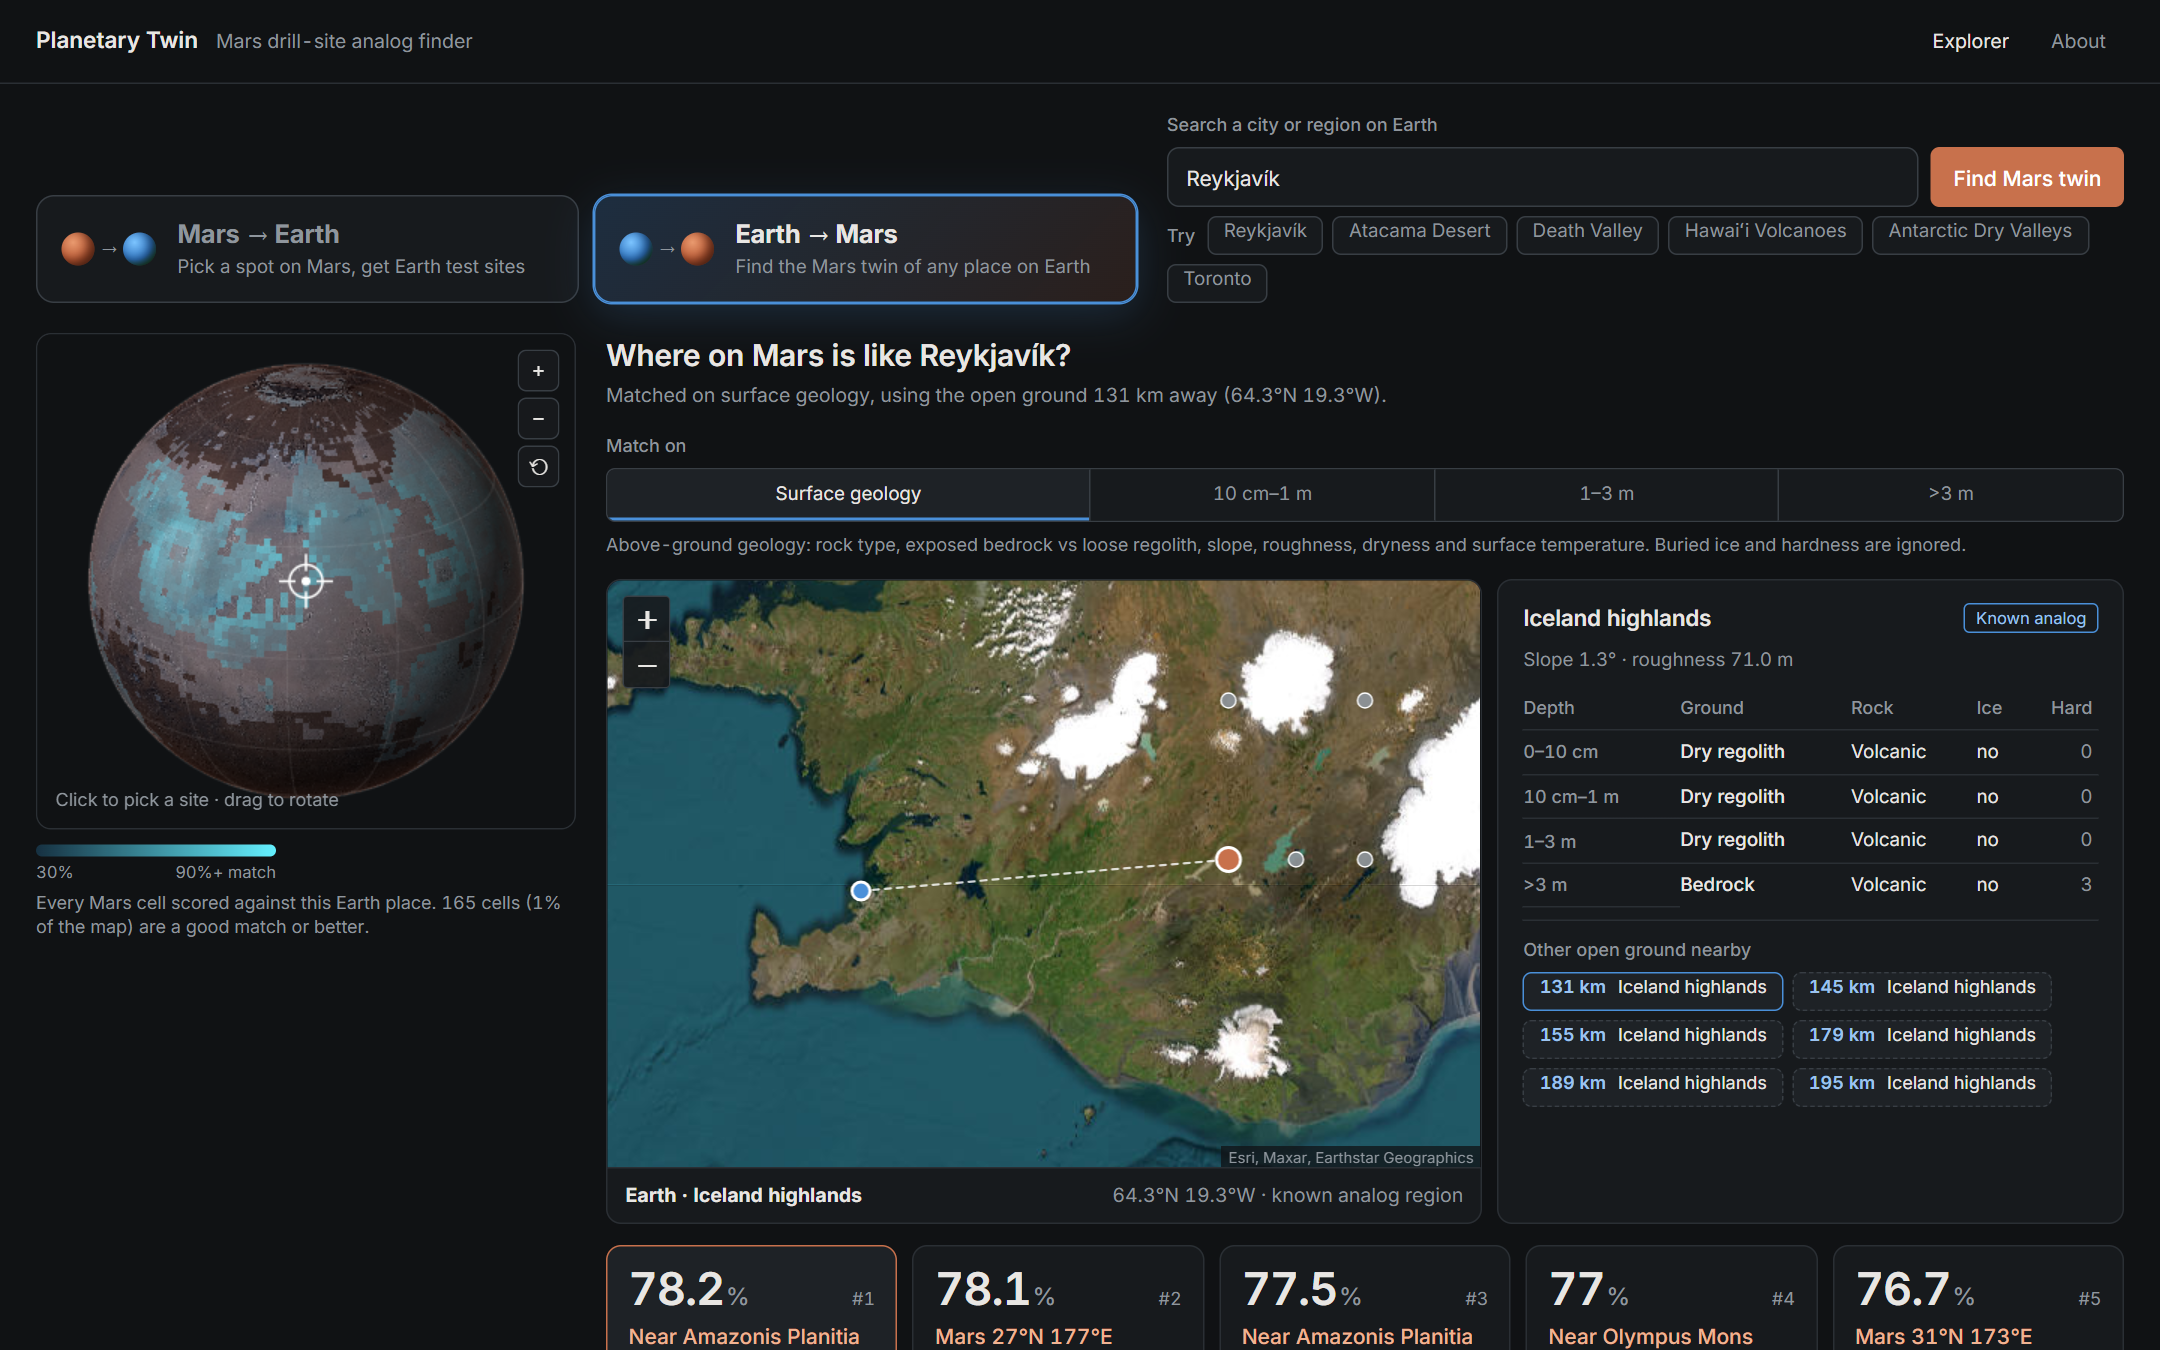
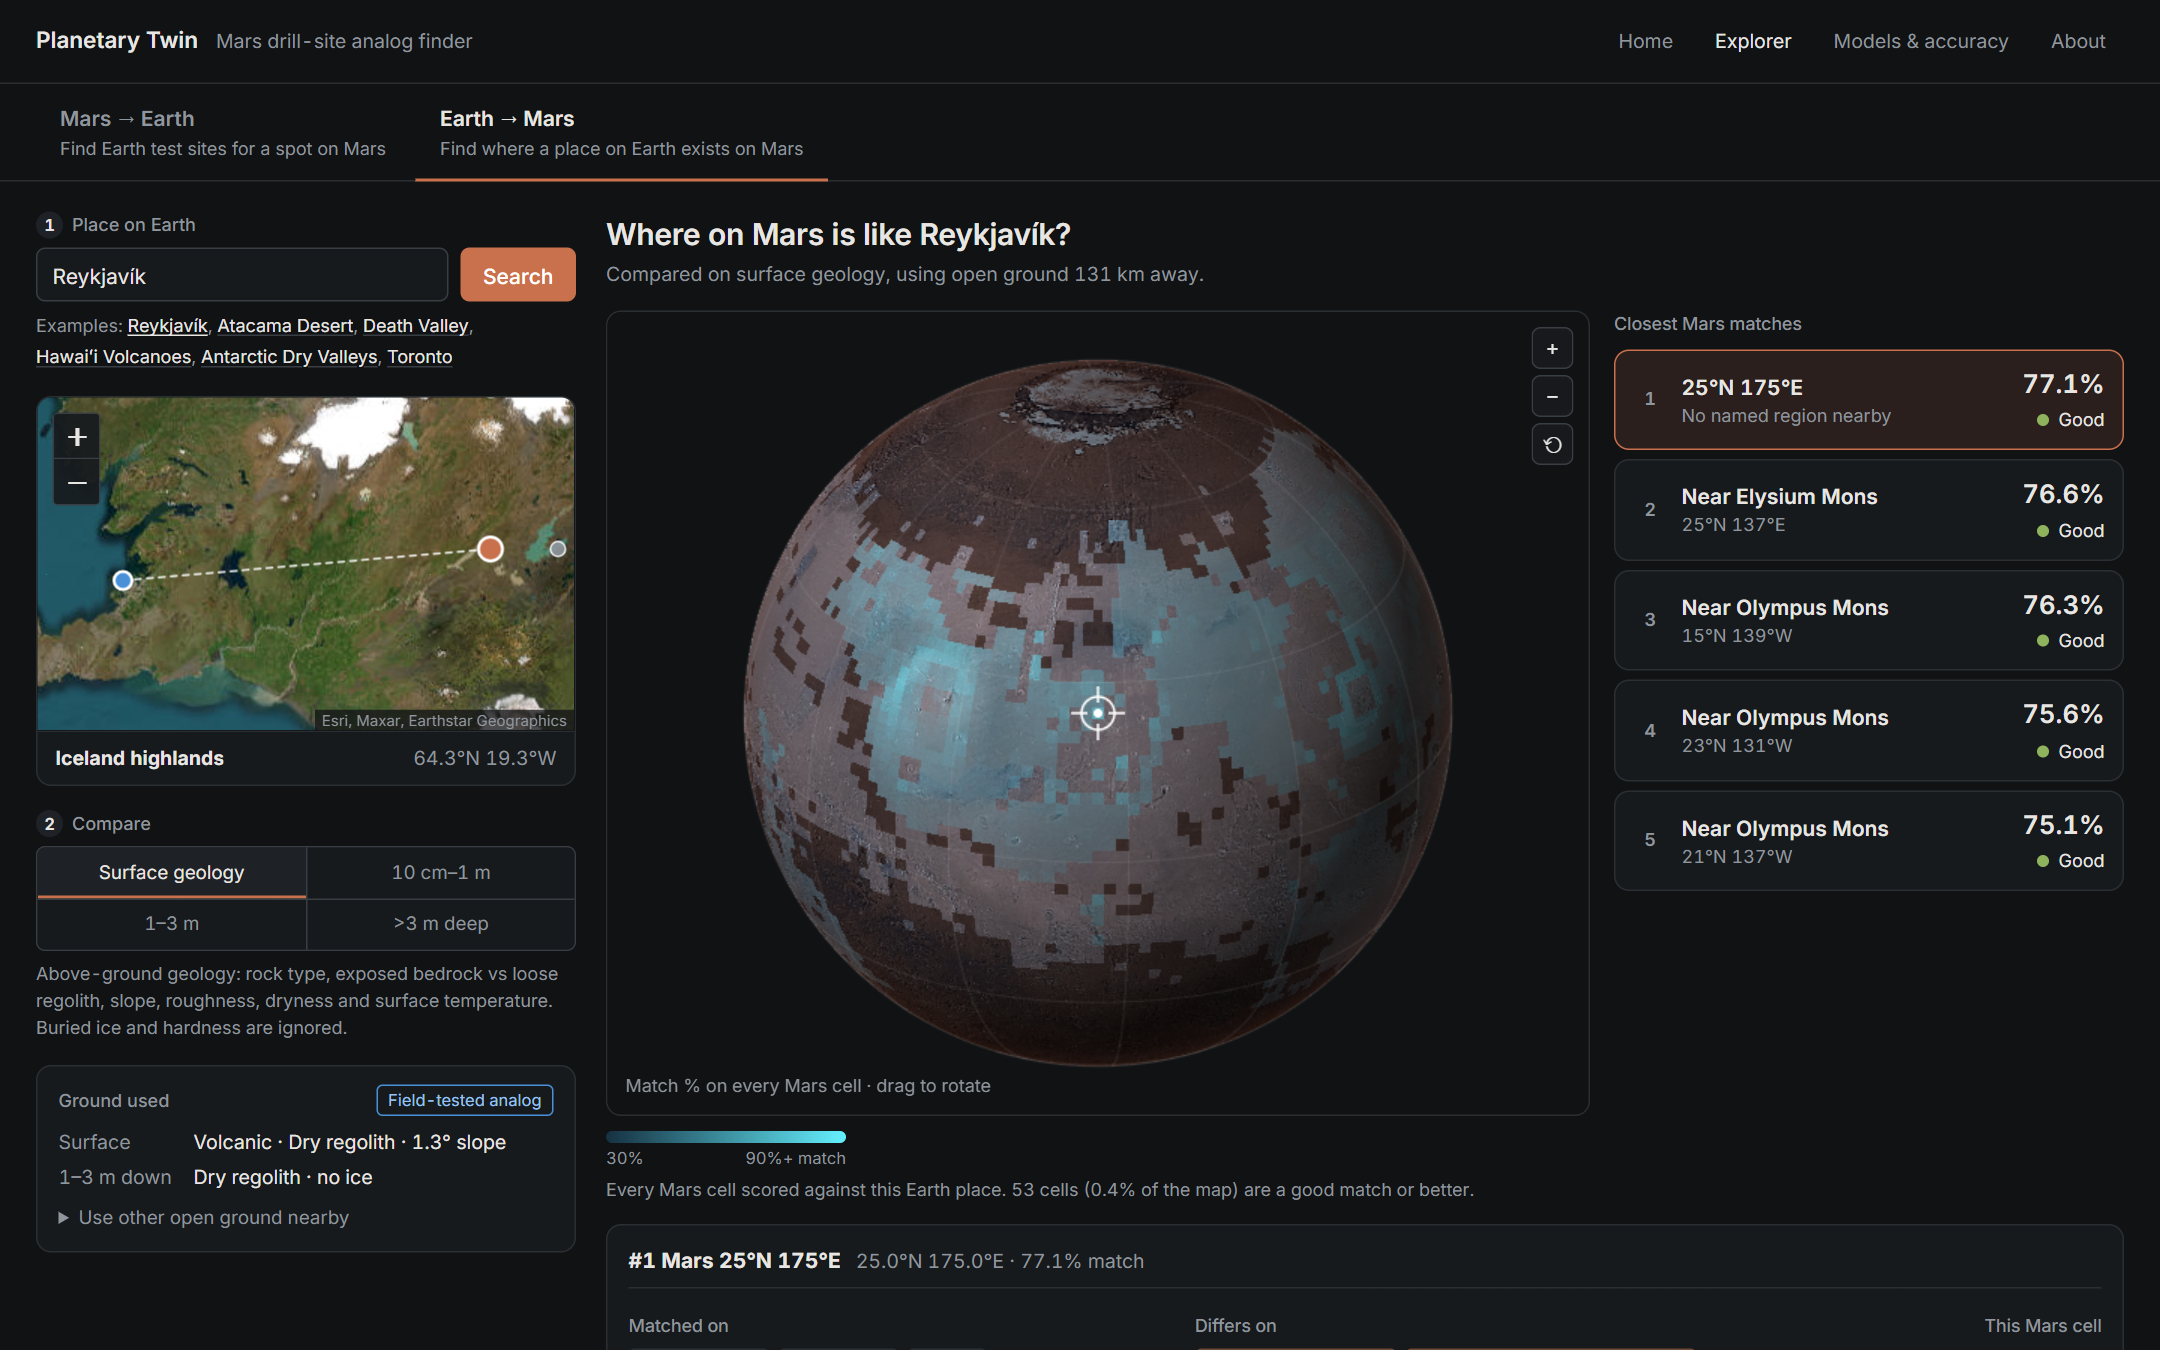
Docs: README results for all models, rebuild steps, screenshots

diff --git a/README.md b/README.md
@@ -1,4 +1,4 @@
-# Planetary Twin 🌎🔴
+# Planetary Twin: Mars Drill-Site Analog Finder
 
 **Find the place on Earth where the ground behaves like a chosen spot on Mars, and the reverse.**
 
@@ -21,13 +21,16 @@ Built for the [NASA Space Apps Challenge 2026](https://www.spaceappschallenge.or
 | | |
 |---|---|
 | **Mars → Earth** | Click the 3D Mars globe (or a landing site such as Jezero, Gale or Phoenix), pick one of four depth bands and get the top Earth analogs with match %, confidence, "matched on / differs on", satellite views of both planets and known drill campaigns. |
-| **Earth → Mars** | The reverse search: pick any place on Earth to see where it "exists" on Mars. All 12,600 Mars cells are scored in the browser, painted as a heat map on the globe, and the top five are named (e.g. *Near Amazonis Planitia*). |
+| **Earth → Mars** | The reverse search. Choose a place on Earth on the left (search, examples or a map click) and what to compare. All 12,600 Mars cells are scored in the browser, painted as a heat map on the globe, and the five closest are listed on the right (e.g. *Near Elysium Mons*). |
 | **Surface-geology mode** | Reverse search can match **above-ground geology only** (rock type, exposed bedrock vs regolith, slope, roughness, dryness, surface temperature), or a specific depth underground. |
 | **City and region search** | Type any city or region (OpenStreetMap geocoding with autocomplete). The app snaps to the nearest drill-testable open ground, shows how far away it is and lists nearby alternatives. |
 | **Ground profile** | Side-by-side cross-section of Mars vs the Earth site through all four depth bands, with per-depth match %. |
 | **Drill-difficulty heat map** | Globe overlay of how hard each Mars cell is to drill at the selected depth, plus overlays for ground ice, sedimentary or volcanic units and "easy digging". |
 | **Mission brief** | One click produces a printable / PDF field-test brief: recommended site, both ground columns, all candidates, past campaigns and the model's validation accuracy. |
-| **Tunable weights** | Sliders re-rank the Earth sites live in the browser, using the same maths as the Python pipeline. |
+| **Hand-tuned / learned weights** | Switch between physics-based weights and weights learned from known analog pairs, or move the sliders. Everything re-ranks live in the browser with the same maths as the Python pipeline. |
+| **Sites with no field tests yet** | Strong matches outside the known analog regions are flagged as candidate test sites that no NASA, ESA or university campaign has used. |
+| **Models and accuracy** | In-app panel (header link "Models & accuracy") that leads with the findings and puts the full held-out tables underneath: ground ice (gradient boosting vs a PyTorch net vs the physical rule), underground temperature (physics-informed PyTorch ensemble vs gradient boosting vs the heat model), matching vs chance, learned vs hand-tuned weights. |
+| **Underground temperature** | Each Earth twin shows its yearly-mean temperature from the surface to 10 m. The values come from ESA's map, from the neural-net ensemble, or from the heat model where the network would be extrapolating, and the source is always named. |
 | **Shareable links** | Every view is in the URL (`#lat=18.4&lon=77.5&band=drill_zone`, `#mode=reverse&elat=64.15&elon=-21.94`). |
 
 <p align="center">
@@ -51,32 +54,90 @@ flowchart LR
   end
   M1 --> H[1-D heat model<br/>temperature by depth]
   H --> MF[Mars features<br/>2° grid, 4 depth bands]
-  E1 --> GAP[Gap-filling model<br/>gradient boosting]
-  GAP --> EF[Earth features<br/>0.5° bare-ground grid]
+  E1 --> PF[Permafrost classifier<br/>trained on ESA CCI labels]
+  PF --> EF[Earth features<br/>0.5° bare-ground grid]
   MF --> K[Weighted Gower kNN]
   EF --> K
   K --> J[(static JSON<br/>output/)]
   J --> W[Web app<br/>browser re-scoring<br/>both directions]
   K --> V[Validation vs<br/>known analog pairs]
+  V --> LW[Learned weights<br/>leave-one-site-out]
 ```
 
 1. **Same features on both planets.** For each depth band (`0–10 cm`, `10 cm–1 m`, `1–3 m`, `>3 m`): mean temperature, frozen share of the year, temperature swing, ground ice, ground type, hardness (0–3), rock class, slope, roughness and dryness.
 2. **Physics where data is missing.** A 1-D heat-conduction model propagates daily and yearly surface temperature waves into the ground (skin depth `δ = √(κP/π)`, from thermal inertia). Mars is 60–100 K colder, so temperatures are compared as within-planet percentiles.
-3. **ML where there is data.** A gradient-boosted model fills gaps in Earth ground ice and ground type, using spatial block cross-validation (whole regions held out).
+3. **ML where there is data.**
+   - A permafrost classifier predicts Earth ground ice where ESA's satellite map stops (it only covers 25–85° N, but the Dry Valleys and the Andes are outside it).
+   - Match weights are learned from the known analog pairs.
+   - Both are tested on data they never saw (see below).
 4. **Matching.** Weighted **Gower distance** handles mixed numeric and categorical features and skips missing values. Match % = `100·exp(−d / steepness)`, twins are kept ≥ 200 km apart, and each result lists the features that agreed and disagreed most.
 5. **Same maths in the browser.** `web/rescore.js` re-implements the pipeline formula. The weight sliders, the ground profile and the whole Earth → Mars search run client-side, and the two directions give identical numbers for the same pair.
 
 ## Does it work?
 
-The scoring was checked against **12 Mars–Earth analog pairs from the literature** (Phoenix ↔ Antarctic Dry Valleys, Jezero ↔ Lake Salda, Gale ↔ Hanksville, …), ranking every one of the **526 Earth places**:
+Every number here is measured on data the model never trained on, next to a baseline. They are also shown in the app's **"How accurate is this?"** panel and in [`output/validation.json`](output/validation.json) and [`output/ml_report.json`](output/ml_report.json).
+
+<p align="center"><img src="docs/img/accuracy.png" alt="How accurate is this? panel" width="100%"></p>
+
+### Finding known analogs
+This test uses **12 Mars–Earth analog pairs from the literature** (Phoenix ↔ Antarctic Dry Valleys, Gale ↔ Utah, Meridiani ↔ Rio Tinto, …). For each pair, the agreed Earth site is ranked among **518 distinct Earth places** (kept 200 km apart).
 
 | | Planetary Twin | Random |
 |---|---|---|
-| Known analog ranked #1 | **17%** | 0.2% |
-| In the top 20 | **42%** | 3.9% |
-| Mean rank (of 526) | **173** | 251 |
+| Known analog in the top 10 | **25%** | 2% |
+| Known analog in the top 20 | **33%** | 4% |
+| Mean rank (of 518) | **214** | 254 |
 
-The tool does far better than chance, but it is a research prototype. 12 pairs is a small test set, and some Mars layers (dryness, frozen share) are close to constant. See [`output/validation.json`](output/validation.json) for per-band numbers and the feature ablation.
+### Ground-ice model (`pipeline/earth_ml/permafrost.py`)
+- **Model:** gradient boosting, trained on **17,898 cells** labelled by ESA CCI Permafrost (ice if the permafrost fraction is ≥ 0.5, none if < 0.1, ambiguous cells dropped).
+- **Inputs:** ERA5-Land soil and surface temperatures, MODIS land temperature, terrain, aridity, SoilGrids and GLiM rock class.
+- **Leakage guard:** the permafrost layers are never inputs, and a test enforces this.
+- **Test regions:** each region is held out entirely and predicted by a model trained without it.
+
+| Balanced accuracy (held out) | Gradient boosting | Neural net (PyTorch) | Temperature rule | Latitude only |
+|---|---|---|---|---|
+| 10° spatial blocks | **0.97** | **0.97** | 0.90 | 0.54 |
+| Alaska | **0.97** | **0.97** | 0.84 | 0.50 |
+| Tibet | 0.89 | **0.91** | 0.83 | 0.50 |
+| Siberia | 0.90 | **0.96** | 0.79 | 0.51 |
+
+Findings:
+- **Both models beat every baseline** on held-out regions.
+- **The PyTorch MLP is no better than gradient boosting.** It is within about 0.01 on spatial-block F1 and ROC-AUC. It is ahead in Tibet and Siberia but behind on Svalbard F1 (0.93 vs 1.00).
+- **Svalbard is all ice**, so only F1 can be computed there.
+- **Hot deserts needed a physics guard.** The model never saw a hot desert (CCI's warmest permafrost-free cell is about 288 K) and leaned towards ice in Death Valley (p = 0.44). A guard now sets ice to "no" wherever even the 1–3 m soil never freezes. The unguarded model stays in the report for comparison.
+- **Sanity checks outside CCI coverage:** Dry Valleys → ice (p = 1.0); Death Valley and the Atacama → no ice.
+- **Uncertainty is overconfident under spatial shift.** The 90% conformal prediction sets covered only 82% of cells in held-out blocks.
+- **The leak fix changed the honest score.** The old gap model reported 99% accuracy because it was fed the permafrost layer it was predicting. That input is now removed.
+
+### Underground-temperature network (`pipeline/earth_ml/profile_nn.py`, PyTorch)
+- **What it predicts:** ground ice, thaw depth and the yearly-mean ground temperature at 0, 1, 2, 5 and 10 m, from surface data only.
+- **Architecture:** a multi-task MLP.
+- **Physics-informed loss:** it penalises profiles that break heat conduction (kinks below 2 m, impossible gradients, ice above 0 °C).
+- **Labels:** ESA CCI ground temperatures, 21,910 cells.
+
+| Error at 10 m, °C (held-out regions, mean) | Physics-informed NN | Same NN, no physics | Gradient boosting | Heat model |
+|---|---|---|---|---|
+| Alaska, Tibet, Svalbard, Siberia | 1.38 | 1.65 | **1.32** | 3.71 |
+| Physically impossible profiles (spatial CV) | **8%** | 32% | — | — |
+
+- **Learned models vs the heat model:** both learned models are about 2.8× more accurate than the heat model.
+- **Gradient boosting vs the neural net:** gradient boosting is slightly more accurate on average. The physics-informed net wins in Tibet and keeps profiles physical: 8% vs 32% impossible profiles for the same net without the physics term.
+- **Production ensemble:** five networks with an out-of-distribution check (Mahalanobis distance in the hidden layer). Where it flags a place as unlike its training data, its error is 1.7× higher. There the app shows the heat model and says the network was not used.
+- **Coverage:** 8,485 cells outside ESA's coverage use the network. Most of the tropics and the far south are flagged and use the heat model, which is the honest outcome for a model trained on cold northern ground.
+
+### Learned match weights (`pipeline/validation/learn_weights.py`)
+- **Model:** one multiplier per feature, bounded to 0.25–4 and pulled towards 1.
+- **Training:** it minimises the mean log-rank of the known sites, using random search then Nelder–Mead.
+- **Test:** leave-one-Mars-site-out (9 sites, 12 pairs), so each site is ranked by weights that never saw it.
+
+| Held-out sites | Top 3 | Top 10 | Mean rank |
+|---|---|---|---|
+| Hand-tuned weights | 8% | 25% | **214** |
+| Learned weights | 8% | 25% | 226 |
+| Random | 1% | 2% | 253 |
+
+**The learned weights did not beat the hand-tuned ones**, so the hand-tuned weights stay the default; the app offers the learned set as a toggle. With 12 pairs, one pair (Gusev ↔ Svalbard) swings the result, so the limit is labelled data, not the optimiser.
 
 ## Run it
 
@@ -90,7 +151,7 @@ cd SpaceApps2026
 python -m http.server 8000        # Windows: py -m http.server 8000
 ```
 
-Then open <http://localhost:8000/web/>. An internet connection is needed for the map tiles, the Leaflet library and city search.
+Then open <http://localhost:8000/web/> for the home page, or <http://localhost:8000/web/app.html> to go straight to the explorer. An internet connection is needed for the map tiles, the Leaflet library and city search.
 
 ### Will the data work for everyone?
 
@@ -99,23 +160,29 @@ Then open <http://localhost:8000/web/>. An internet connection is needed for the
 
 ```bash
 conda env create -f environment.yml && conda activate analog-finder
-python -m pipeline.run_all --build      # rebuild features, match, validate -> output/
-pytest tests/                           # 64 tests, run on synthetic data (no download needed)
+python -m pipeline.earth_library.ee_export --fetch-grid --grid-deg 0.5 --min-bare 0   # Earth layers (~20 min)
+python -m pipeline.earth_library.ee_export --fetch-antarctica
+python -m pipeline.earth_library.ee_export --fetch-modis-lc
+python -m pipeline.earth_library.build_layers     # Earth table + permafrost model -> output/ml_report.json
+python -m pipeline.run_all --build --learn         # features, matching, learned weights, validation -> output/
+pytest tests/                                      # runs on synthetic data, no download needed
 ```
+
+The step-by-step version is in [`pipeline/README.md`](pipeline/README.md).
 
 ## Repository layout
 
 ```
-web/                  static app: index.html, app.js, rescore.js (scoring in JS), mars-globe.js
+web/                  static site: index.html (home), app.html + app.js (explorer), rescore.js (scoring in JS), about.html
 output/               pipeline results the app reads (grid/<band>.json, earth_library.json, validation.json)
 pipeline/
   data_fetch/         download + build Mars layers (MOLA, TES, neutron, MCD, geologic map)
   earth_library/      global Earth grid from Earth Engine exports, analog regions
-  earth_ml/           gradient-boosted gap-filling for Earth ice / ground type
+  earth_ml/           permafrost classifier (CCI labels, baselines, conformal sets), optional PyTorch net, gap-filling
   physics/            1-D subsurface heat model
   mars_features/      per-band Mars feature extraction on a 2° grid
   matching/           normalisation, weighted Gower kNN, explanations
-  validation/         known analog pairs, recall@K vs random baseline, ablation
+  validation/         known analog pairs, recall@K vs random baseline, ablation, learned weights (leave-one-site-out)
 tests/                pytest suite (contract, coordinates, matching, validation, sources)
 docs/plan.md          design doc and data contract
 ```
@@ -136,7 +203,7 @@ The full list with resolutions, licences and access methods is in [`research/dat
 
 Built for NASA Space Apps 2026 by **Markus Clarke**, **Waleed Diab**, **Dominic Chwieros**, **Archait Jain** and **Jad Wehbi**.
 
-- Dominic Chwieros: Mars data acquisition, physics model, shared pipeline, web features (Earth → Mars search, city search, mission brief, deployment)
+- Dominic Chwieros: Mars and Earth data acquisition, physics model, ML models (permafrost classifier, learned weights), shared pipeline, web features (home page, Earth → Mars search, city search, accuracy panel, mission brief, deployment)
 - Jad Wehbi: Earth library, scoring and validation
 - Archait Jain, Waleed Diab: web app
 
